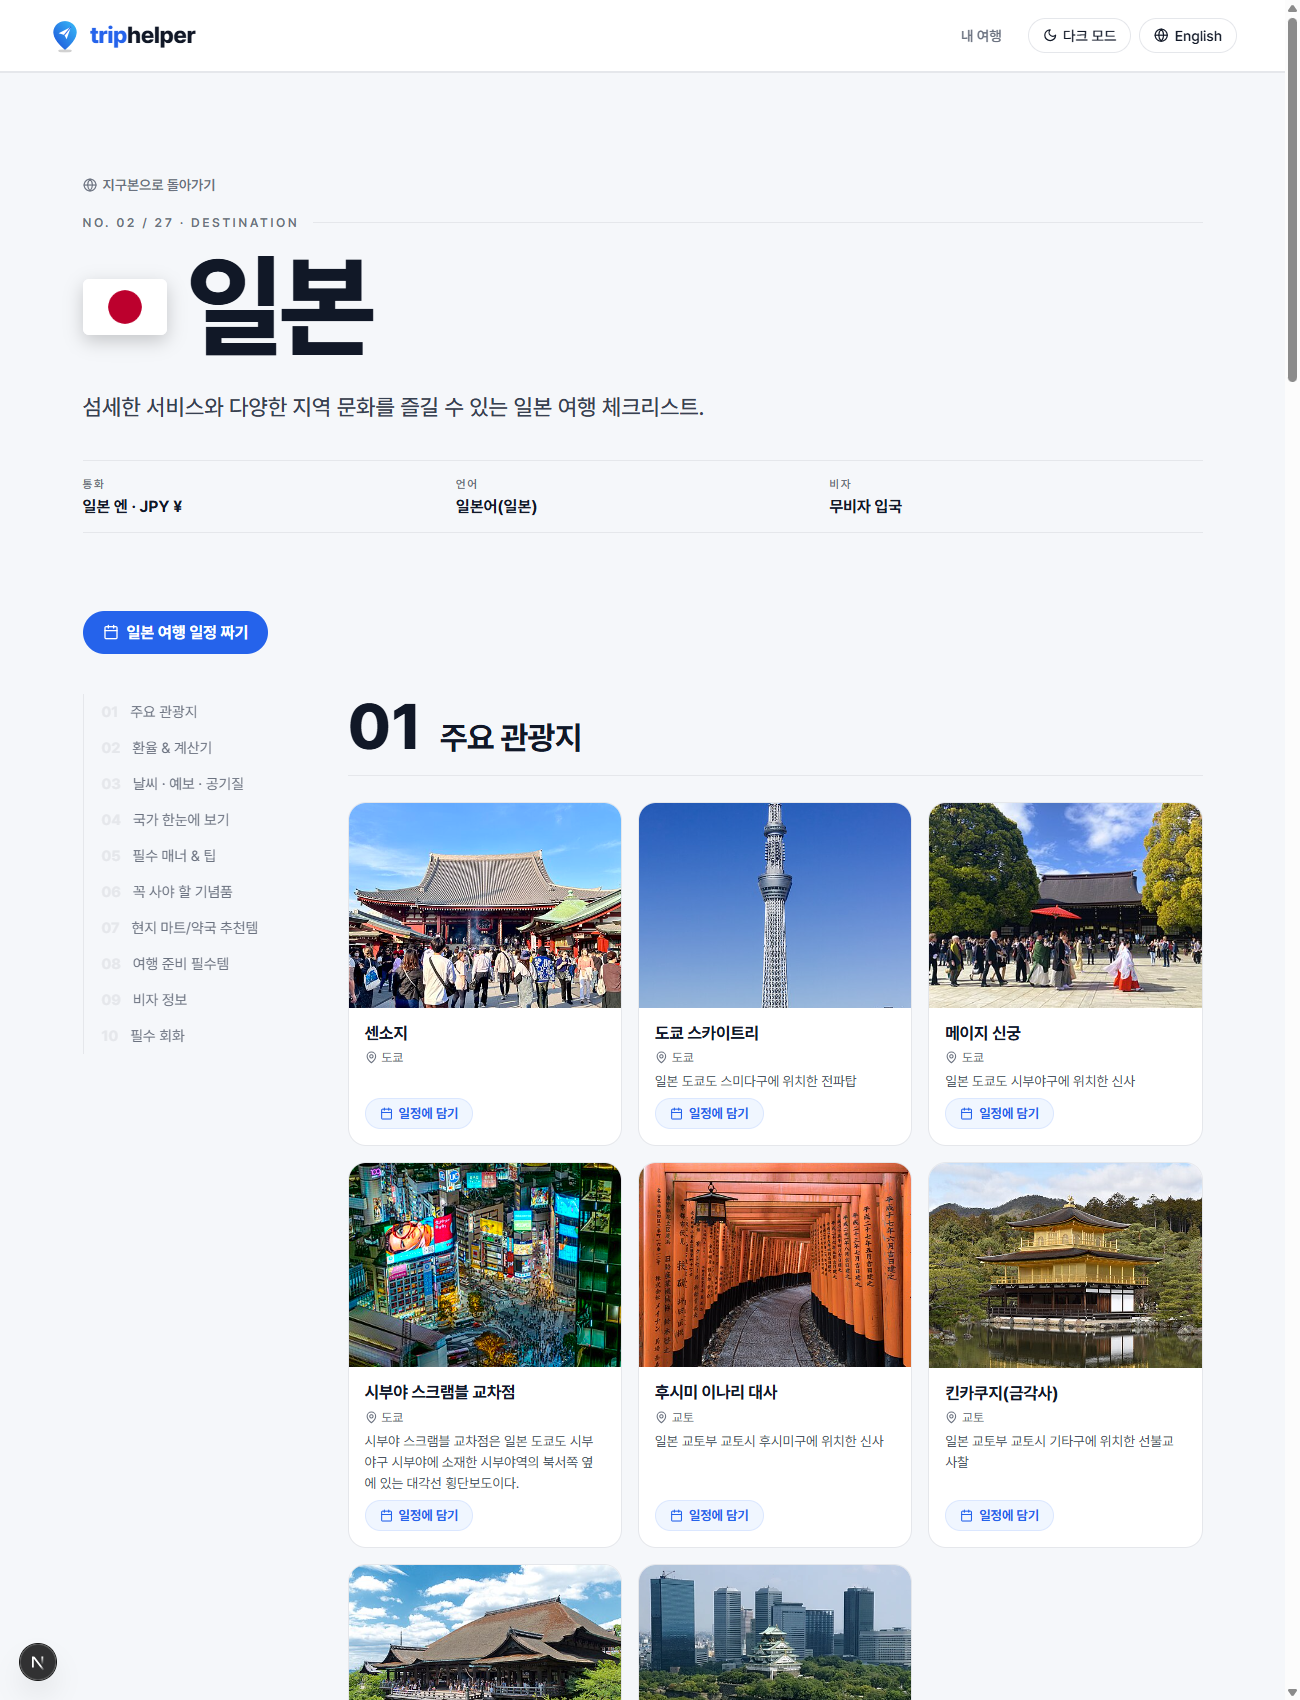
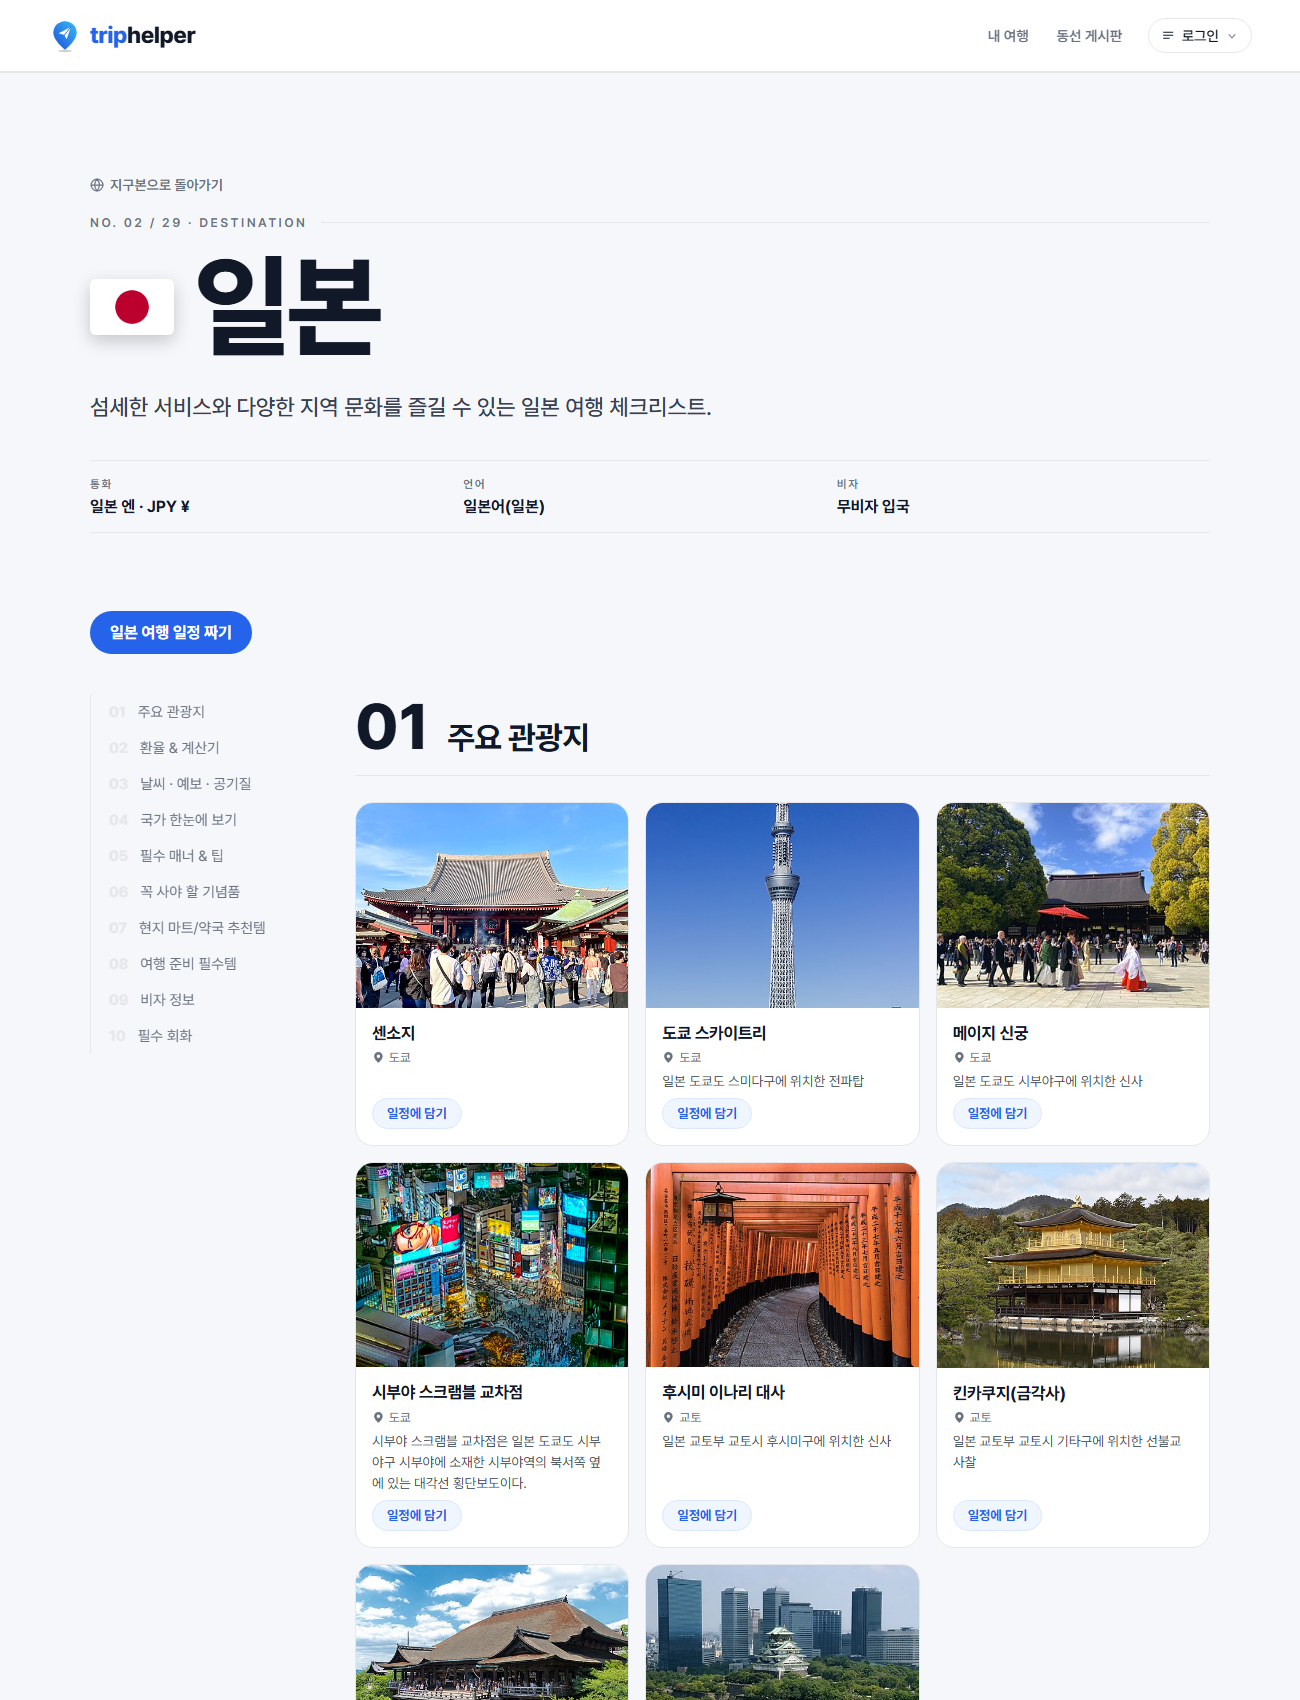
docs: README를 현재 기능(게시판·함께 짜기·가까운 순 정리·29개국)에 맞게, 스크린샷 새로 찍음

diff --git a/README.md b/README.md
@@ -29,7 +29,7 @@
 <img src="./docs/screenshots/destination.png" alt="나라 정보 페이지 스크린샷" width="800">
 </details>
 <details>
-<summary>내 여행 플래너 (지도 동선 · 장소 간 이동)</summary>
+<summary>내 여행 플래너 (지도 동선 · 장소 간 이동 · 가까운 순으로 정리)</summary>
 <img src="./docs/screenshots/trip.png" alt="내 여행 플래너 스크린샷" width="800">
 </details>
 
@@ -42,7 +42,7 @@
 
 **TripHelper**는 이 문제를 해결하기 위해 시작했습니다.
 여행 준비에 필요한 핵심 정보(환율·날씨·매너·회화·비자 등)를 한 페이지에 모으고,
-그 정보를 바탕으로 **날짜별 일정을 지도 위에서 짜는 플래너**까지 연결했습니다.
+그 정보를 바탕으로 **날짜별 일정을 지도 위에서 짜는 플래너**와, 다른 여행자의 동선을 보고 가져오는 **동선 게시판**까지 연결했습니다.
 
 ---
 
@@ -50,15 +50,15 @@
 
 | 지표 | 수치 |
 |------|------|
-| **지원 국가** | 27개국 (아시아 10, 유럽 12, 아메리카 3, 오세아니아 2) |
-| **나라 페이지** | 국가당 최대 10개 섹션 · 빌드 시 27개 페이지를 정적 HTML로 생성 |
-| **주요 관광지** | 216곳 (국가당 8곳, 사진·좌표·한국어 설명 포함) |
-| **회화 표현** | 16개 언어 · 128개 표현 (발음 + 음성 재생) |
-| **지원 언어** | 한국어 / 영어 (홈·나라 페이지. 플래너는 한국어) |
+| **지원 국가** | 29개국 (아시아 12, 유럽 12, 아메리카 3, 오세아니아 2) |
+| **나라 페이지** | 국가당 최대 10개 섹션 · 빌드 시 29개 페이지를 정적 HTML로 생성 |
+| **주요 관광지** | 232곳 (사진·좌표·한국어 설명 포함) |
+| **회화 표현** | 나라별 현지어 표현 (발음 + 음성 재생) |
+| **지원 언어** | 한국어 |
 | **환율 추이** | 최근 7일 일별 데이터 병렬 수집 |
 | **날씨** | 실시간 + 5일 예보(나라 페이지) / 최대 16일 예보(플래너 날짜별) |
-| **연동 외부 서비스** | 모두 무료·API 키 불필요 (환율, 날씨·공기질, 위키백과·위키데이터, OpenStreetMap 검색, 벡터 지도) |
-| **서버·DB** | 없음 — 정적 사이트로 배포, 일정은 브라우저에 저장 |
+| **연동 외부 서비스** | 정보·지도는 모두 무료·API 키 불필요 (환율, 날씨·공기질, 위키백과·위키데이터, OpenStreetMap 검색, 벡터 지도) |
+| **서버·DB** | 자체 서버 없음 — 정적 사이트(GitHub Pages) + 브라우저에서 바로 쓰는 Supabase(로그인 · 일정 저장 · 게시판) |
 
 ---
 
@@ -66,7 +66,7 @@
 
 ### 지구본으로 여행지 고르기
 - D3 직교 투영 지구본: 드래그로 회전, 핀을 누르면 그 나라로 회전한 뒤 나라 페이지로 이동
-- 검색창(한/영 키워드), 인기 여행지 칩
+- 검색창, 인기 여행지 칩
 
 ### 나라 정보 페이지 (`/destinations/japan/` 등)
 - **주요 관광지**: 사진 카드 + "일정에 담기" 버튼으로 내 여행에 바로 추가
@@ -80,14 +80,23 @@
 - **여행 설정**: 나라 · 도시(자유 입력, 실제 도시인지 확인) · 날짜, 날짜 추가/삭제
 - **일정표 + 지도**: 일차별 색 번호 마커와 경로, 지명 한국어 표시, 마우스 휠 확대
 - **장소 추가**: 이름만 입력하면 위치를 자동으로 찾아 지도에 표시 (후보가 여럿이면 선택, 못 찾으면 지도에서 직접 지정)
+- **여행지 바구니 · 끌어서 옮기기**: 나라 페이지에서 담은 관광지를 원하는 날·자리에 끌어다 놓기, Day 탭을 끌어 날짜별 일정 순서 바꾸기
+- **숙소**: 날짜별 밤 숙소를 정하면 다음 날 아침 출발지·그날 마지막 도착지로 이어서 표시
+- **가까운 순으로 정리**: 숙소에서 출발해 숙소로 돌아오는 하루 동선을 이동 거리가 가장 짧게 다시 짜서, 미리 보여 준 뒤 적용 (식당·공항·교통 일정은 제자리 유지)
 - **장소 사이 이동**: 가까우면 도보 시간, 멀면 거리 + 대중교통 길찾기(한국은 카카오맵, 해외는 구글 지도로 연결)
 - **근처 추천**: 담은 장소 반경 1km의 유명한 곳을 사진과 도보 거리로 추천
 - **날짜별 날씨 예보 · 환율**, 관광지 사진
 - **가방별 체크리스트**: 나라별 필수템으로 기본 목록, 비 예보가 있으면 우산 등 제안
-- **링크 공유**: 일정 전체를 주소 안에 담아 서버 없이 공유
+- **링크 공유**: 일정 전체를 압축해 주소 안에 담아 공유 (받는 사람은 로그인 없이 열람)
+- **내 일정 저장**: 로그인하면 일정이 자동으로 저장되고 여러 기기에서 이어서 편집, 여러 일정 관리
+- **함께 짜는 일정**: 초대 링크로 멤버 초대, 편집/보기 권한, 활동 기록, 다른 멤버의 수정이 실시간 반영(장소 단위로 합치기)
+
+### 동선 게시판 (`/board/`)
+- 내 일정을 사본으로 올려 나라별 여행 동선 공유 (전체 공개 / 링크가 있는 사람만)
+- 지도 동선 미리보기, 댓글, 마음에 드는 동선을 내 일정으로 가져오기
 
 ### 공통
-- 라이트/다크 모드(깜빡임 없이 적용), 한/영 전환, 반응형, 선 아이콘(이모지 미사용)
+- 카카오 로그인, 반응형, 선 아이콘(이모지 미사용)
 
 ---
 
@@ -98,7 +107,9 @@
 | 영역 | 기술 |
 |------|------|
 | **프레임워크** | Next.js 16 (App Router, 정적 출력 `output: "export"`) |
-| **UI** | React 19, TypeScript 5, 전역 CSS(디자인 토큰 + 다크 모드) |
+| **UI** | React 19, TypeScript 5, 전역 CSS(디자인 토큰), dnd-kit(끌어서 옮기기) |
+| **로그인·DB** | Supabase (Auth · Postgres 행 단위 보안 · Realtime) |
+| **배포** | GitHub Actions + GitHub Pages |
 | **지구본** | D3 (geoOrthographic) + world-atlas |
 | **지도** | MapLibre GL JS + OpenFreeMap 벡터 타일 |
 | **차트** | Canvas API (라이브러리 없이 직접 구현) |
@@ -118,14 +129,16 @@
 
 **② 서버 없는 정적 출력**
 환율·날씨 등 실시간 데이터는 모두 브라우저에서 공개 API로 받으므로 서버가 필요 없습니다.
-→ `output: "export"`로 33개 페이지를 HTML로 미리 만들어 정적 호스팅에 배포합니다. (정적 출력과 함께 쓸 수 없는 Cache Components는 끔)
+→ `output: "export"`로 모든 페이지를 HTML로 미리 만들어 GitHub Pages에 배포합니다. (정적 출력과 함께 쓸 수 없는 Cache Components는 끔)
 
 **③ 좌표 순서 실수를 타입으로 차단**
 데이터는 `[위도, 경도]`, 지도 라이브러리(D3·MapLibre)는 `[경도, 위도]`를 써서 순서 실수가 생기기 쉬웠습니다.
 → 좌표를 `{ lat, lng }` 객체로 통일하고, 지도용 변환은 `toLngLatTuple()` 하나로만 하도록 했습니다.
 
-**④ DB 없이 일정 저장·공유**
-일정은 브라우저(localStorage)에 자동 저장하고 `useSyncExternalStore`로 React와 연결했습니다. 공유는 일정 전체를 압축해 주소(`#t=…`)에 담아 서버 없이 처리합니다.
+**④ 서버 코드 없이 일정 저장·공유**
+일정은 브라우저(localStorage)에 자동 저장하고 `useSyncExternalStore`로 React와 연결했습니다. 공유 링크는 일정 전체를 압축해 주소(`#z=…`)에 담아 서버 없이 처리합니다.
+로그인·저장·게시판은 브라우저에서 Supabase를 직접 부르고, 권한은 서버 코드 대신 DB의 행 단위 보안(RLS)·열 단위 권한·RPC로 막습니다 (`supabase/migrations/`).
+함께 짜는 일정은 "마지막으로 맞춘 뒤 아무도 안 고쳤을 때만 저장"하고, 그사이 누가 저장했으면 장소 단위 3방향 병합 후 다시 저장합니다.
 
 **⑤ 비용 0원 지도·검색**
 구글 지도 API(유료) 대신 MapLibre + OpenFreeMap(무료 벡터 지도)을 쓰고, 지명 레이어를 `name:ko → name` 순으로 바꿔 한국어 지명을 보여 줍니다.
@@ -159,20 +172,21 @@ triphelper/
     └── src/
         ├── app/                 # 라우트 (App Router)
         │   ├── page.tsx               # 홈 (지구본)
-        │   ├── destinations/[slug]/   # 나라 페이지 27개 (정적 생성)
+        │   ├── destinations/[slug]/   # 나라 페이지 29개 (정적 생성)
         │   ├── trip/                  # 내 여행 플래너
+        │   ├── board/                 # 동선 게시판, 글 보기(post/?c=공유코드)
         │   ├── layout.tsx             # 메타데이터, 테마, 폰트, 애드센스
         │   └── sitemap.ts             # sitemap.xml 자동 생성
         ├── components/
         │   ├── home/            # Globe, HomeStage
         │   ├── destination/     # 환율·날씨·관광지·회화 섹션
-        │   ├── trip/            # 플래너 (지도, 일정표, 체크리스트, 설정)
-        │   ├── layout/          # 상단 바, 푸터
-        │   ├── providers/       # 언어·테마 (useSyncExternalStore)
-        │   └── ui/              # 선 아이콘
-        ├── data/                # 27개국 정보, 회화, 관광지 (TypeScript 데이터)
-        ├── i18n/                # 한/영 문구
-        ├── lib/                 # 환율·날씨·장소 검색·일정 모델·저장소
+        │   ├── trip/            # 플래너 (지도, 일정표, 체크리스트, 설정, 함께 짜기)
+        │   ├── board/           # 게시판 목록, 글 보기, 댓글, 올리기
+        │   ├── layout/          # 상단 바, 계정 메뉴, 푸터
+        │   ├── providers/       # 앱 전역 상태 (useSyncExternalStore)
+        │   └── ui/              # 선 아이콘, 기본 프로필 그림
+        ├── data/                # 29개국 정보, 회화, 관광지 (TypeScript 데이터)
+        ├── lib/                 # 환율·날씨·장소 검색·일정 모델·저장·동기화·동선 정리·Supabase
         └── types/               # 데이터 타입
 ```
 
@@ -218,17 +232,18 @@ npm run build      # → web/out/ 에 정적 사이트 생성
 
 ---
 
-## 지원 국가 (27개)
+## 지원 국가 (29개)
 
 | | | | |
 |---|---|---|---|
 | 한국 | 일본 | 프랑스 | 스페인 |
-| 미국 | 이탈리아 | 터키 | 멕시코 |
+| 미국 | 이탈리아 | 튀르키예 | 멕시코 |
 | 영국 | 독일 | 그리스 | 오스트리아 |
 | 중국 | 캐나다 | 헝가리 | 스위스 |
 | 네덜란드 | 포르투갈 | 필리핀 | 베트남 |
 | 호주 | 태국 | 대만 | 홍콩 |
-| 싱가포르 | 말레이시아 | 인도네시아 | |
+| 싱가포르 | 말레이시아 | 인도네시아 | 러시아 |
+| 뉴질랜드 | | | |
 
 ---
 
